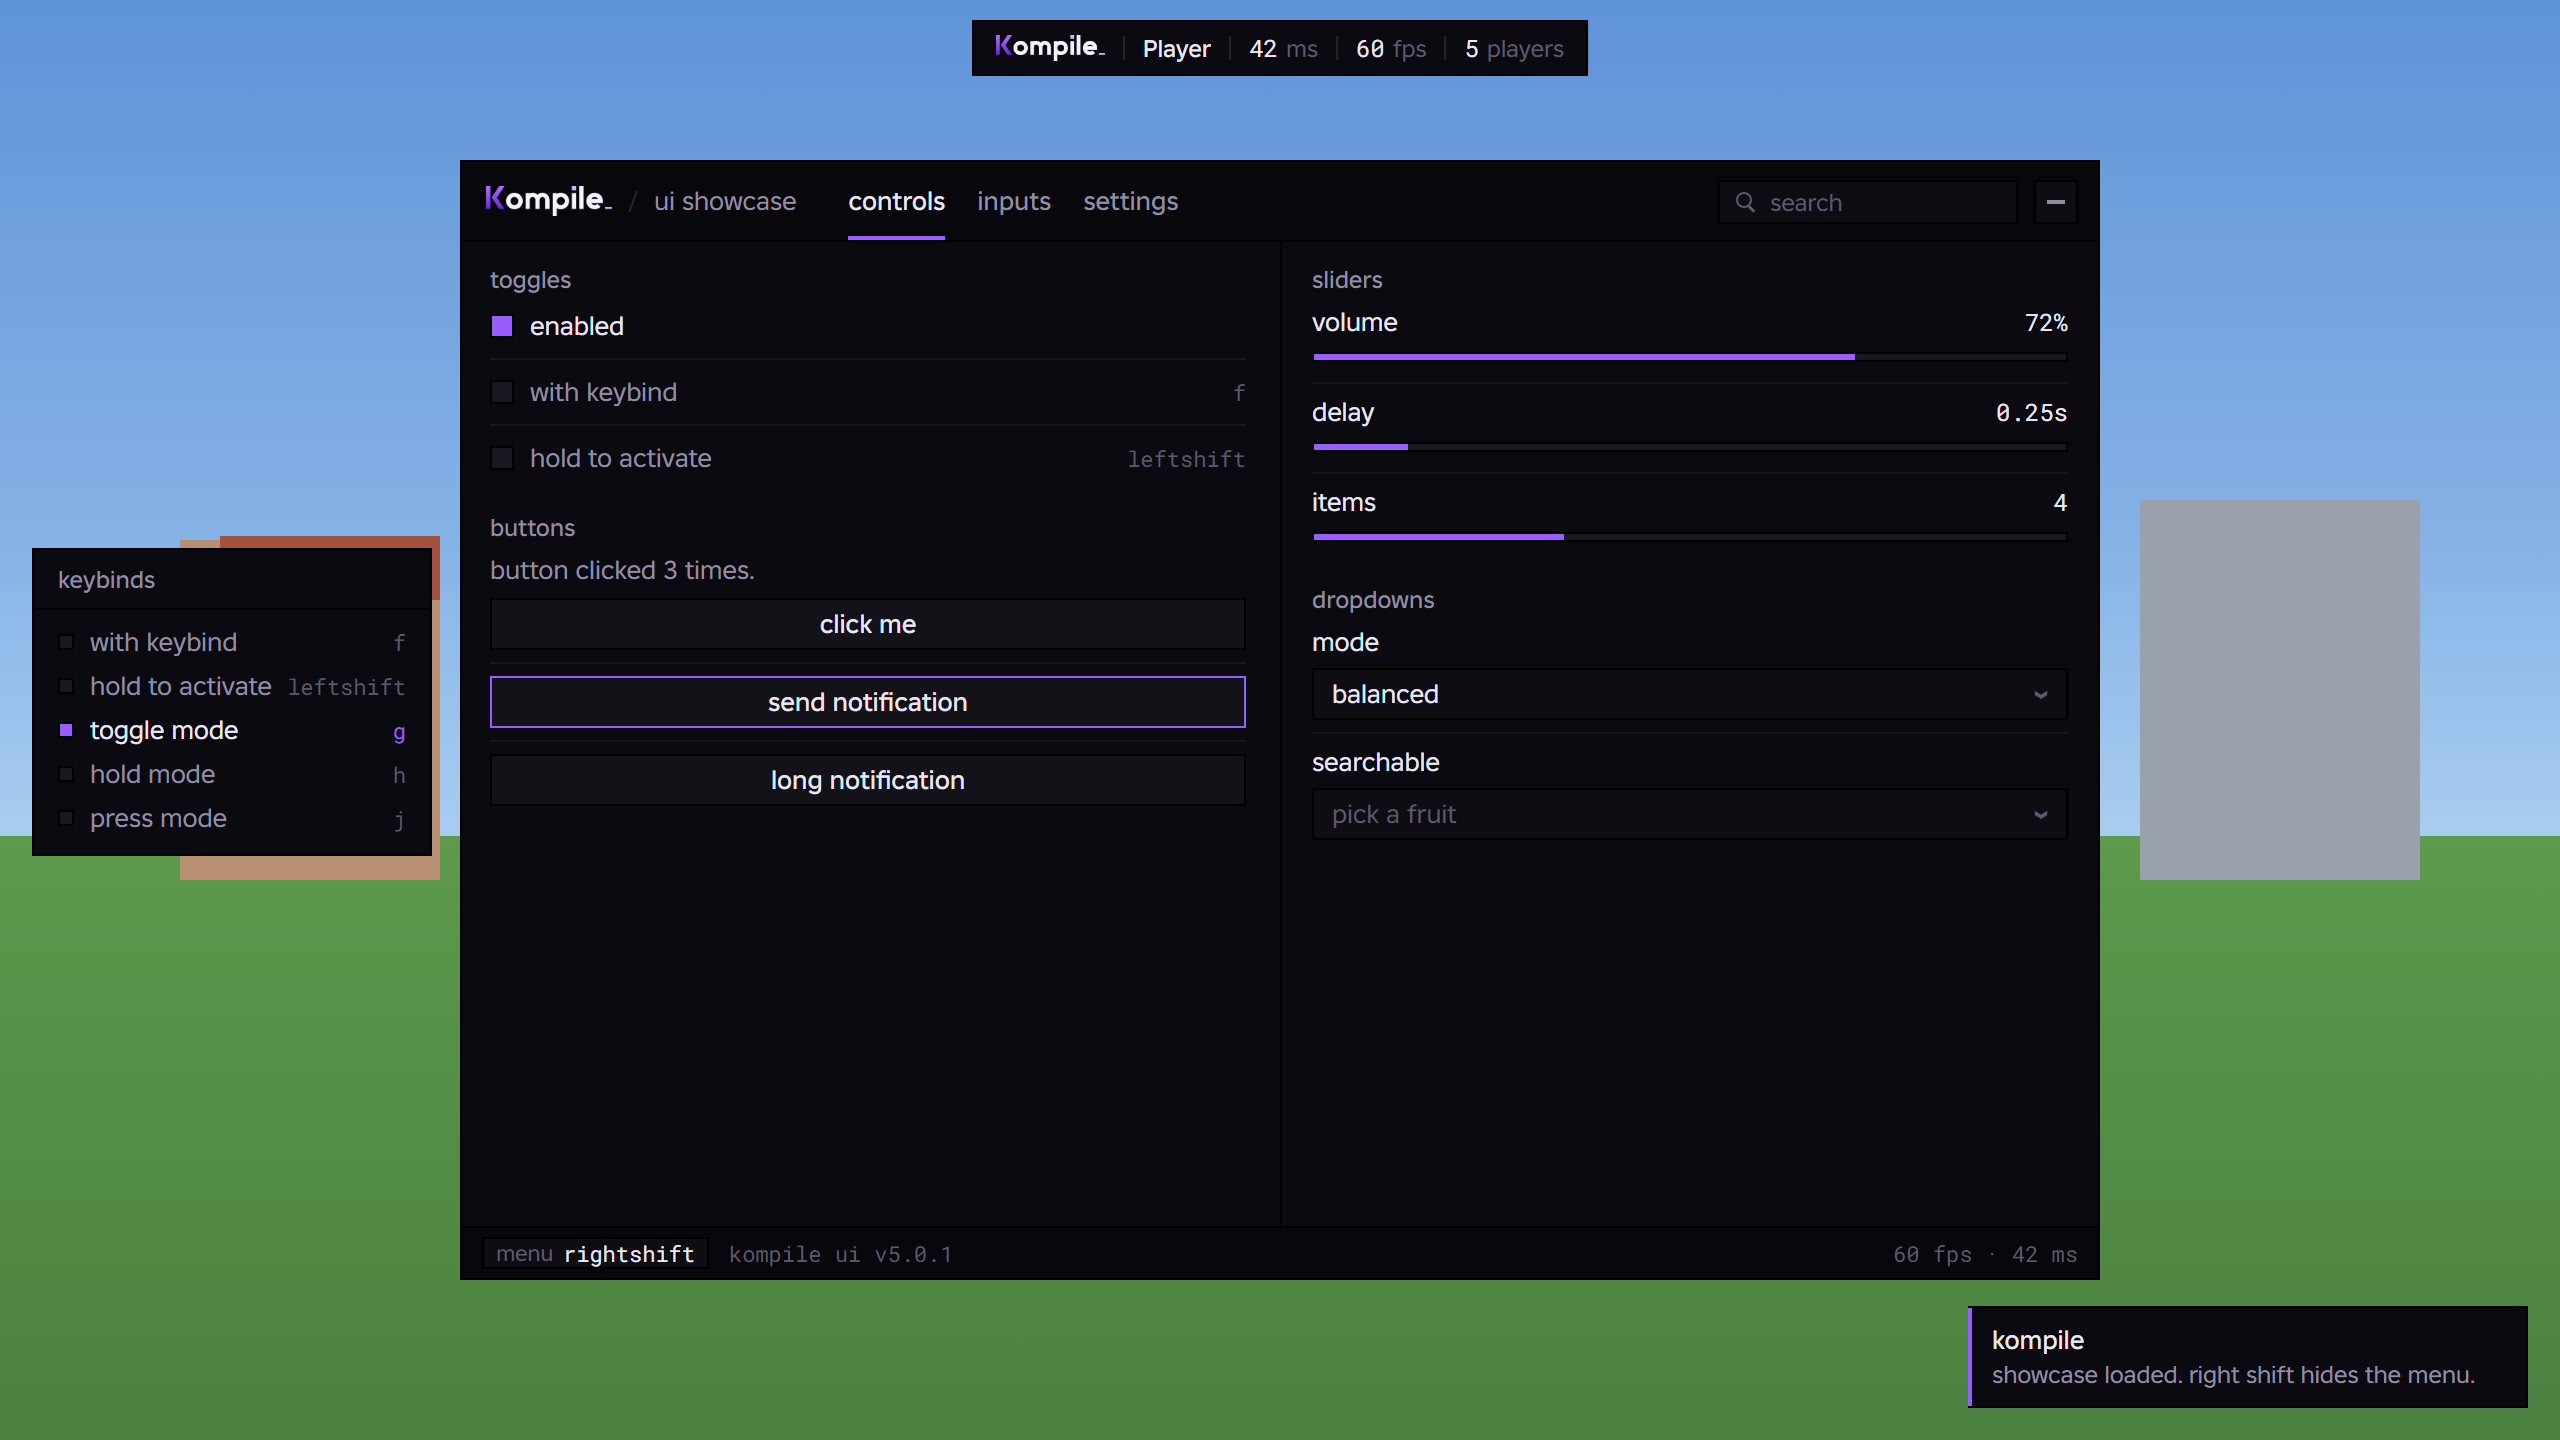
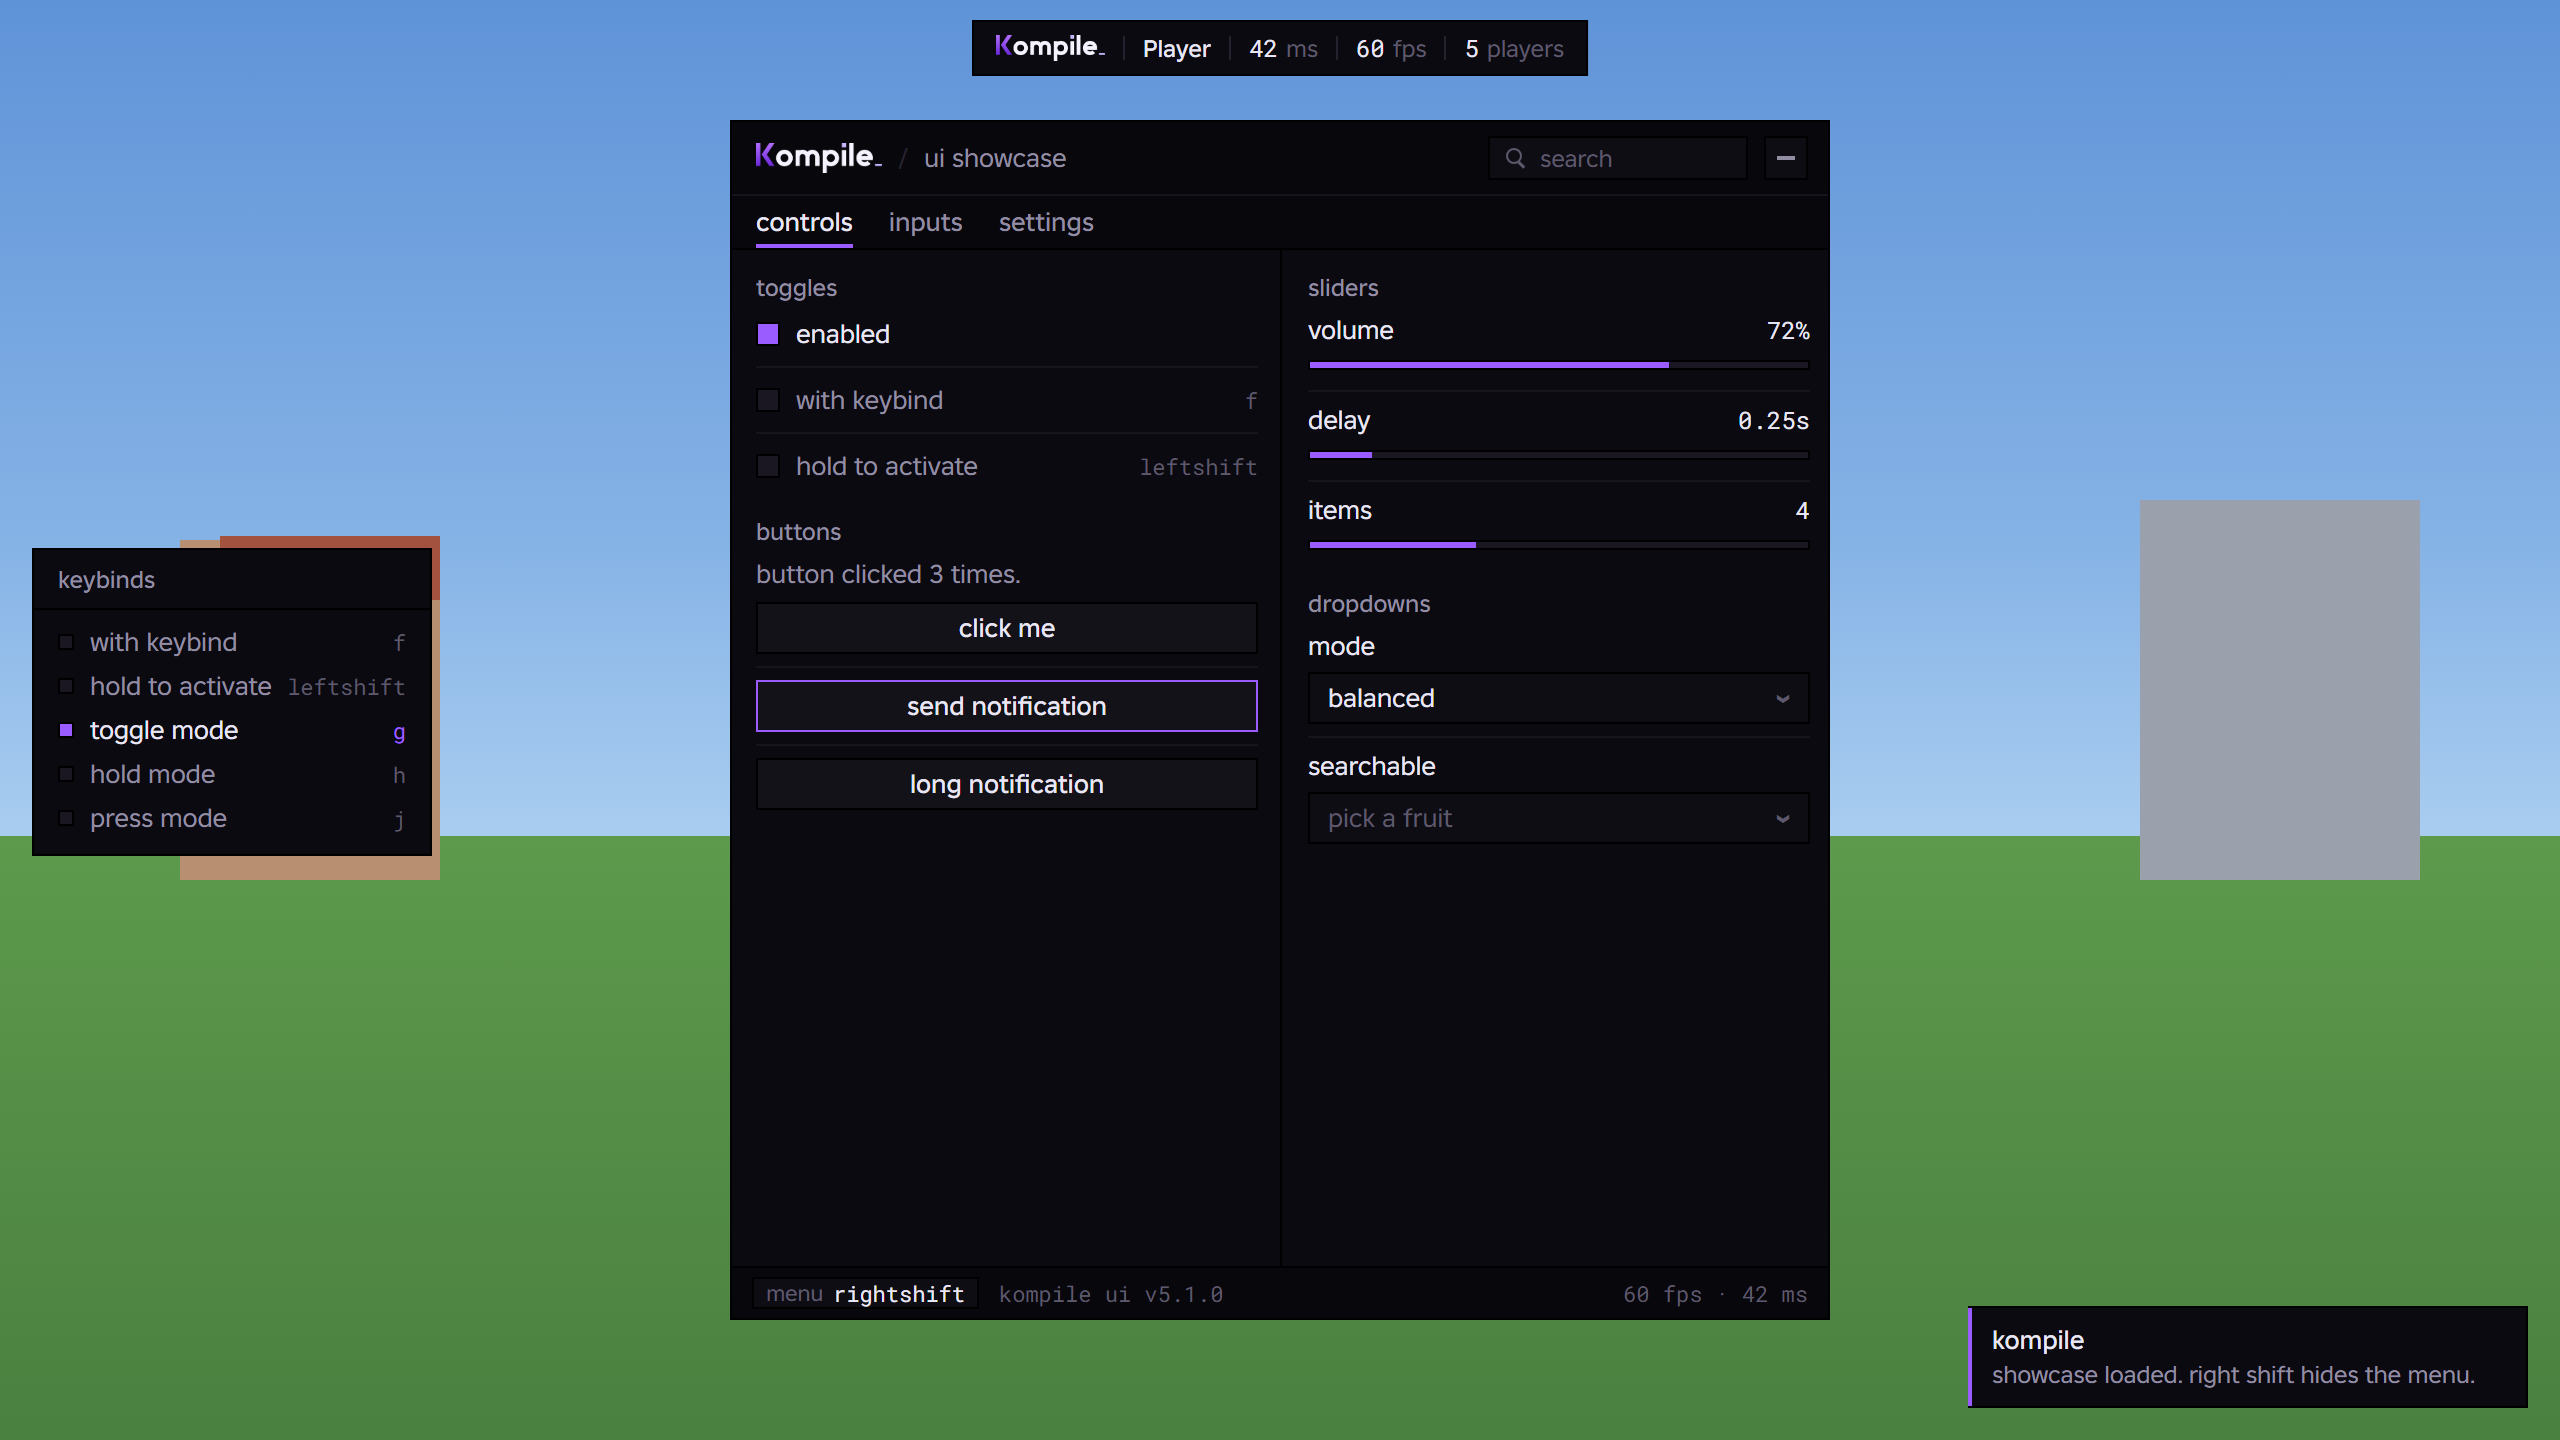
Kompile UI v5.1: 550x600 window with tabs in their own row
The default window is now 550 x 600 (pass Width / Height for another
size). Tabs move out of the title bar into a row under it, which also
scrolls sideways if a script has many tabs. Still two columns. Preview
image and README updated to match.

Changed region(s): [[0.1562, 0.0625, 0.8438, 0.9375], [0.5, 0.3438, 0.5938, 0.5938], [0.4375, 0.3125, 0.5, 0.3438]]

diff --git a/README.md b/README.md
@@ -61,7 +61,7 @@ assets/               logo, banner and UI preview
 A compact UI library written for this hub, in the spirit of the classic hand-built menus:
 
 - Flat near-black panels with square corners and a 1px black outline around the window and every control.
-- The kompile wordmark and the tabs across the top; two columns of plain groups whose rows are split by hairlines.
+- A compact 550 × 600 window (pass `Width` / `Height` to `CreateWindow` for another size): the kompile wordmark on top, a row of tabs under it, and two columns of plain groups whose rows are split by hairlines.
 - Everything in lowercase (typed text and player names keep their case; set `Library.Lowercase = false` to turn it off).
 - Square checkboxes that fill purple when on, key names in mono, and flat sliders with mono values.
 - A search box that finds any control on any tab and jumps to it, plus a status bar with a footer you can set (`Library:SetFooter("...")`) and live FPS and ping.
